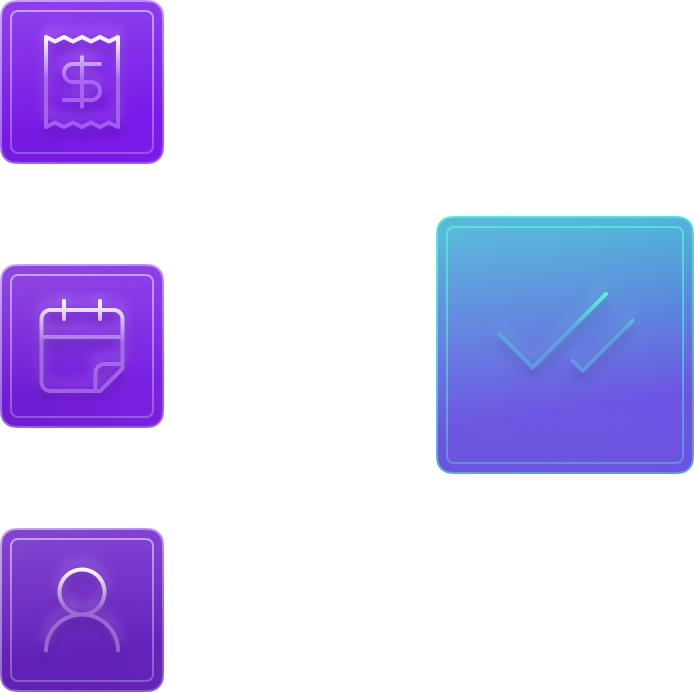
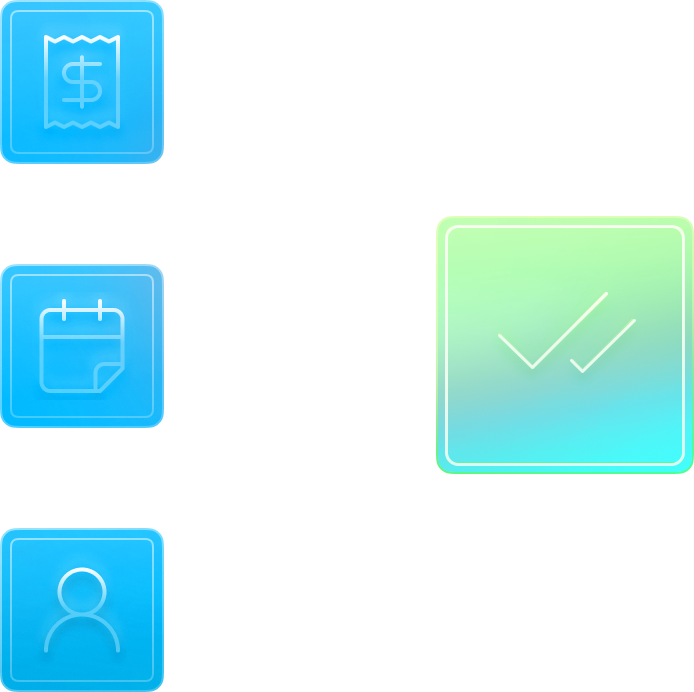
update changes

diff --git a/index.html b/index.html
@@ -2,7 +2,8 @@
 <!-- saved from url=(0031)https://adfi-1ba2df.webflow.io/ -->
 <html data-wf-domain="adfi-1ba2df.webflow.io" data-wf-page="68c86086a76a3466d8409ce0"
   data-wf-site="682e4d6e2c13f9dd99e88f69"
-  class="w-mod-js w-mod-ix wf-instrumentsans-n4-active wf-inter-n4-active wf-inter-n7-active wf-inter-n9-active wf-inter-n5-active wf-active" style="scroll-behavior: smooth;">
+  class="w-mod-js w-mod-ix wf-instrumentsans-n4-active wf-inter-n4-active wf-inter-n7-active wf-inter-n9-active wf-inter-n5-active wf-active"
+  style="scroll-behavior: smooth;">
 
 <head>
   <meta http-equiv="Content-Type" content="text/html; charset=UTF-8">
@@ -330,20 +331,23 @@ a,
     <div class="w-nav-overlay" data-wf-ignore="" id="w-nav-overlay-0"></div>
   </div>
 
-   <!-- ==============================================hero section starts her================================================== -->
+  <!-- ==============================================hero section starts her================================================== -->
   <section id="hero" class="padding-global">
     <div class="container-hero">
       <div class="container_hero-text" data-aos="fade-up">
-        <h1 class="h1-heading" data-aos="fade-up" data-aos-delay="200">Performance-driven financing for digital advertising</h1>
-        <p class="p-hero" data-aos="fade-up" data-aos-delay="400"><strong>Grow now, pay </strong><span><strong>later</strong></span><strong><em>
+        <h1 class="h1-heading" data-aos="fade-up" data-aos-delay="200">Performance-driven financing for digital
+          advertising</h1>
+        <p class="p-hero" data-aos="fade-up" data-aos-delay="400"><strong>Grow now, pay
+          </strong><span><strong>later</strong></span><strong><em>
             </em></strong>with AdFi. We provide real-time financing for your digital advertising campaigns. Scale
           faster, unlock cash flow, and continue to fund winning ad strategy – without dilution.</p>
-        <div class="container-button-group" data-aos="fade-up" data-aos-delay="600"><a href="#section-connect" class="button w-button"><strong>Get
+        <div class="container-button-group" data-aos="fade-up" data-aos-delay="600"><a href="#section-connect"
+            class="button w-button"><strong>Get
               funded</strong></a><a href="#section-how" class="button secondary w-button"><strong class="bold-text">How
               it works</strong></a></div>
       </div>
       <div class="container-hero-visual" data-aos="fade-left" data-aos-delay="300"><img
-          src="./AdFi - Performance Driven Marketing Financing_files/68d55b231d4b013b87d84891_Group 17.avif"
+          src="AdFi - Performance Driven Marketing Financing_files/68d55b231d4b013b87d84891_Group 171.png"
           loading="lazy" width="346"
           alt="Graphic representing how AdFi supports continuous loop of funding, marketing and performance"
           class="image-hero"></div>
@@ -352,16 +356,18 @@ a,
   <section class="padding-global">
     <div class="container-spacer"></div>
   </section>
-   <!-- ==============================================how it works section starts here================================================== -->
+  <!-- ==============================================how it works section starts here================================================== -->
   <section id="section-how" class="padding-global">
     <div class="container-how-it-works" data-aos="fade-up">
       <div class="container_how-intro" data-aos="fade-up">
         <div class="title-subtitle">
           <div class="heading-mini" data-aos="fade-up" data-aos-delay="200">How it works</div>
-          <h1 class="h2-heading" data-aos="fade-up" data-aos-delay="300">Marketing financing solutions that align with your growth</h1>
+          <h1 class="h2-heading" data-aos="fade-up" data-aos-delay="300">Marketing financing solutions that align with
+            your growth</h1>
         </div>
         <div class="content-spaced">
-          <p class="p-hero" data-aos="fade-up" data-aos-delay="400">Unlock a new era of financing that works for you, not against you. Our platform seamlessly
+          <p class="p-hero" data-aos="fade-up" data-aos-delay="400">Unlock a new era of financing that works for you,
+            not against you. Our platform seamlessly
             integrates with your existing marketing and financial data, providing real-time insights for dynamic funding
             decisions. This is financing built for today's digital economy in just a few simple steps.</p>
         </div>
@@ -424,15 +430,16 @@ a,
   <section class="padding-global">
     <div class="container-spacer"></div>
   </section>
-    <!-- ==============================================why choose adfi section starts here================================================== -->
+  <!-- ==============================================why choose adfi section starts here================================================== -->
   <section id="section-why" class="padding-global">
     <div class="container-why" data-aos="fade-up">
       <div class="container_why-left" data-aos="fade-right">
         <div class="title-subtitle-why">
           <div class="heading-mini" data-aos="fade-up" data-aos-delay="200">Why choose AdFi?</div>
           <h1 class="h2-heading" data-aos="fade-up" data-aos-delay="300">Fuel your growth on your terms</h1>
-        </div><img src="./AdFi - Performance Driven Marketing Financing_files/68d5626b03c57224e617e891_Group 34.avif"
-          loading="lazy" alt="Graphic showing the correlation between AdFi and Growth" class="image-why" data-aos="fade-up" data-aos-delay="400">
+        </div><img src="AdFi - Performance Driven Marketing Financing_files/68d5626b03c57224e617e891_Group 341.png"
+          loading="lazy" alt="Graphic showing the correlation between AdFi and Growth" class="image-why"
+          data-aos="fade-up" data-aos-delay="400">
       </div>
       <div class="container_why-right" data-aos="fade-left">
         <div class="container-reason" data-aos="fade-up" data-aos-delay="200">
@@ -460,7 +467,7 @@ a,
   <section class="padding-global">
     <div class="container-spacer"></div>
   </section>
-    <!-- ==============================================eligibility section starts here================================================== -->
+  <!-- ==============================================eligibility section starts here================================================== -->
   <section id="section-eligibility" class="padding-global">
     <div class="container-eligibility" data-aos="fade-up">
       <div class="container-eligibility-left" data-aos="fade-right">
@@ -487,7 +494,7 @@ a,
         </div>
       </div>
       <div class="container-eligibility-right" data-aos="fade-left"><img
-          src="./AdFi - Performance Driven Marketing Financing_files/68d58df63d5e26856d5a2e5c_Group 37.png"
+          src="AdFi - Performance Driven Marketing Financing_files/68d58df63d5e26856d5a2e5c_Group 37.png"
           loading="lazy" width="347" sizes="(max-width: 479px) 100vw, 347px"
           alt="Icon representing the eligibility requirements for AdFi"
           srcset="https://cdn.prod.website-files.com/682e4d6e2c13f9dd99e88f69/68d58df63d5e26856d5a2e5c_Group%2037-p-500.png 500w, https://cdn.prod.website-files.com/682e4d6e2c13f9dd99e88f69/68d58df63d5e26856d5a2e5c_Group%2037.png 694w"
@@ -497,7 +504,7 @@ a,
   <section class="padding-global">
     <div class="container-spacer"></div>
   </section>
-    <!-- ==============================================faq section starts here================================================== -->
+  <!-- ==============================================faq section starts here================================================== -->
   <section id="section-faq" class="padding-global">
     <div class="container-why" data-aos="fade-up">
       <div class="container_faq-left" data-aos="fade-right">
@@ -606,18 +613,20 @@ a,
   <section class="padding-global">
     <div class="container-spacer"></div>
   </section>
-    <!-- ==============================================contact section starts here================================================== -->
+  <!-- ==============================================contact section starts here================================================== -->
   <section id="section-connect" class="padding-global dark-mode">
     <div class="container-contact" data-aos="fade-up">
       <div class="container_contact-left" data-aos="fade-right">
         <div class="title-subtitle">
           <div class="heading-mini utility-text-inverse" data-aos="fade-up" data-aos-delay="200">Get in touch</div>
-          <h1 class="h2-heading utility-text-inverse-secondary" data-aos="fade-up" data-aos-delay="300">Ready to Amplify Your Marketing Dollars?</h1>
+          <h1 class="h2-heading utility-text-inverse-secondary" data-aos="fade-up" data-aos-delay="300">Ready to Amplify
+            Your Marketing Dollars?</h1>
         </div>
       </div>
       <div class="container_contact-right" data-aos="fade-left">
         <h1 class="paragraph-lg utility-text-inverse" data-aos="fade-up" data-aos-delay="200">Get in Touch</h1>
-        <p class="p-hero utility-text-inverse" data-aos="fade-up" data-aos-delay="300">Data driven approval and no personal guarantees needed. No lengthy loan
+        <p class="p-hero utility-text-inverse" data-aos="fade-up" data-aos-delay="300">Data driven approval and no
+          personal guarantees needed. No lengthy loan
           applications or investor pitching required.</p>
         <div class="w-form" data-aos="fade-up" data-aos-delay="400">
           <form id="email-form" name="email-form" data-name="Email Form" method="get" class="form-contact"
@@ -644,7 +653,7 @@ a,
       </div>
     </div>
   </section>
-    <!-- ==============================================footer section starts here================================================== -->
+  <!-- ==============================================footer section starts here================================================== -->
   <section id="why" class="padding-global footer">
     <div class="container-footer">
       <div class="container-footer-top">
@@ -681,7 +690,7 @@ a,
         </a>
 
         <span class="link-footer site-by">
-          Site by <a href="https://mediax.co.in/" target="_blank">MediaX</a>
+          <a href="https://mediax.co.in/" target="_blank">Site by MediaX</a>
         </span>
       </div>
 

diff --git a/AdFi - Performance Driven Marketing Financing_files/adfi-1ba2df.webflow.shared.bc6467f00.css b/AdFi - Performance Driven Marketing Financing_files/adfi-1ba2df.webflow.shared.bc6467f00.css
@@ -26,6 +26,8 @@ audio:not([controls]) {
   display: none;
 }
 
+
+
 a {
   background-color: #0000;
 }
@@ -2807,9 +2809,11 @@ textarea.w-input, textarea.w-select {
   grid-row-gap: .5em;
   border: 0px solid var(--ai-gen-82921b10-4b39-48f0-b346-808cf4903d29-1747864945348---button--button-primary-border);
   background-color: var(--ai-gen-82921b10-4b39-48f0-b346-808cf4903d29-1747864945348---core-accent-color--accent-primary);
+  background: linear-gradient(90deg, #ADFDA2, #11D3F3) !important;
   box-shadow: none;
   font-family: var(--ai-gen-82921b10-4b39-48f0-b346-808cf4903d29-1747864945348---button--button-font);
   color: var(--ai-gen-82921b10-4b39-48f0-b346-808cf4903d29-1747864945348---text-color--text-on-accent-primary);
+  color: #18181b !important;
   font-size: var(--ai-gen-82921b10-4b39-48f0-b346-808cf4903d29-1747864945348---base-typography--base-font-size);
   text-align: center;
   cursor: pointer;
@@ -2828,8 +2832,10 @@ textarea.w-input, textarea.w-select {
 .button:hover {
   border-color: var(--ai-gen-82921b10-4b39-48f0-b346-808cf4903d29-1747864945348---button--button-primary-border-hover);
   background-color: var(--ai-gen-82921b10-4b39-48f0-b346-808cf4903d29-1747864945348---core-accent-color--accent-primary-hover);
+  background: linear-gradient(90deg, #ADFDA2, #11D3F3) !important;
   box-shadow: none;
   color: var(--ai-gen-82921b10-4b39-48f0-b346-808cf4903d29-1747864945348---button--button-primary-text);
+  color:#18181b !important;
 }
 
 .button:active {
@@ -3053,6 +3059,7 @@ textarea.w-input, textarea.w-select {
   border: 1px solid var(--ai-gen-82921b10-4b39-48f0-b346-808cf4903d29-1747864945348---core-color-tint--neutral-primary-a30);
   color: var(--ai-gen-82921b10-4b39-48f0-b346-808cf4903d29-1747864945348---text-color--text-primary);
   background-color: #fff;
+  background:#ffffff !important;
 }
 
 .button.secondary:hover {
@@ -4705,6 +4712,9 @@ textarea.w-input, textarea.w-select {
 
 .utility-text-accent-primary {
   color: var(--ai-gen-82921b10-4b39-48f0-b346-808cf4903d29-1747864945348---core-accent-color--accent-primary);
+  background: linear-gradient(90deg, #ADFDA2, #11D3F3);
+  -webkit-background-clip: text;
+  color: transparent;
 }
 
 .utility-text-secondary {
@@ -7657,13 +7667,18 @@ img {
 
 .padding-global.dark-mode {
   background-color: var(--ai-gen-82921b10-4b39-48f0-b346-808cf4903d29-1747864945348---core-accent-color--accent-primary);
+  background: linear-gradient(90deg, #ADFDA2, #11D3F3)!important;
   background-image: url("https://cdn.prod.website-files.com/682e4d6e2c13f9dd99e88f69/68ca0b2fafcf4d500e89fd78_Contact.avif");
   background-position: 0 100%;
   background-size: cover;
+  color: #18181b !important;
 }
 
 .padding-global.footer {
   background-color: #2f0d68;
+  background: linear-gradient(90deg, #ADFDA2, #11D3F3);
+  color: #18181b !important;
+
 }
 
 .container-hero {
@@ -7749,6 +7764,9 @@ img {
 
 .heading-mini {
   color: var(--ai-gen-82921b10-4b39-48f0-b346-808cf4903d29-1747864945348---core-accent-color--accent-primary);
+  background: linear-gradient(90deg, #ADFDA2, #11D3F3);
+  -webkit-background-clip: text !important;
+  color: transparent;
   letter-spacing: .5px;
   font-family: "Nhaasgrotesktxpro 75 Bd", Arial, sans-serif;
   font-weight: 400;
@@ -7992,6 +8010,7 @@ img {
   border-style: none solid solid none;
   border-width: 1px;
   border-color: var(--ai-gen-82921b10-4b39-48f0-b346-808cf4903d29-1747864945348---core-color-tint--neutral-inverse-a10);
+  border: 1px solid #0000001a;
   flex-flow: row;
   flex: 1;
   width: 50%;
@@ -8005,6 +8024,7 @@ img {
   border-style: none none solid;
   border-width: 1px;
   border-color: var(--ai-gen-82921b10-4b39-48f0-b346-808cf4903d29-1747864945348---core-color-tint--neutral-inverse-a10);
+  border: 1px solid #0000001a;
   flex-flow: column;
   flex: none;
   width: 50%;
@@ -8024,7 +8044,9 @@ img {
 
 .submit-button-2 {
   background-color: var(--ai-gen-82921b10-4b39-48f0-b346-808cf4903d29-1747864945348---button--button-primary-bg);
+  background: linear-gradient(90deg, #ADFDA2, #11D3F3);
   flex: 0 auto;
+  color:#18181b;
   align-self: flex-start;
   width: auto;
   margin-top: 1rem;
@@ -8036,6 +8058,9 @@ img {
 
 .submit-button-2:hover {
   background-color: var(--ai-gen-82921b10-4b39-48f0-b346-808cf4903d29-1747864945348---button--button-primary-bg-hover);
+  background: linear-gradient(90deg, #ADFDA2, #11D3F3);
+  color:#18181b;
+
 }
 
 .container-footer {
@@ -8043,6 +8068,7 @@ img {
   border-style: none solid;
   border-width: 1px;
   border-color: var(--ai-gen-82921b10-4b39-48f0-b346-808cf4903d29-1747864945348---core-color-tint--neutral-inverse-a10);
+  border: 1px solid #0000001a;
   flex-flow: column;
   min-height: 400px;
   margin-left: auto;
@@ -8066,6 +8092,7 @@ img {
   grid-column-gap: 3rem;
   grid-row-gap: 3rem;
   border-bottom: 1px solid var(--ai-gen-82921b10-4b39-48f0-b346-808cf4903d29-1747864945348---core-color-tint--neutral-inverse-a10);
+  border-bottom: 1px solid #0000001a;
   padding: 3rem;
   display: flex;
 }
